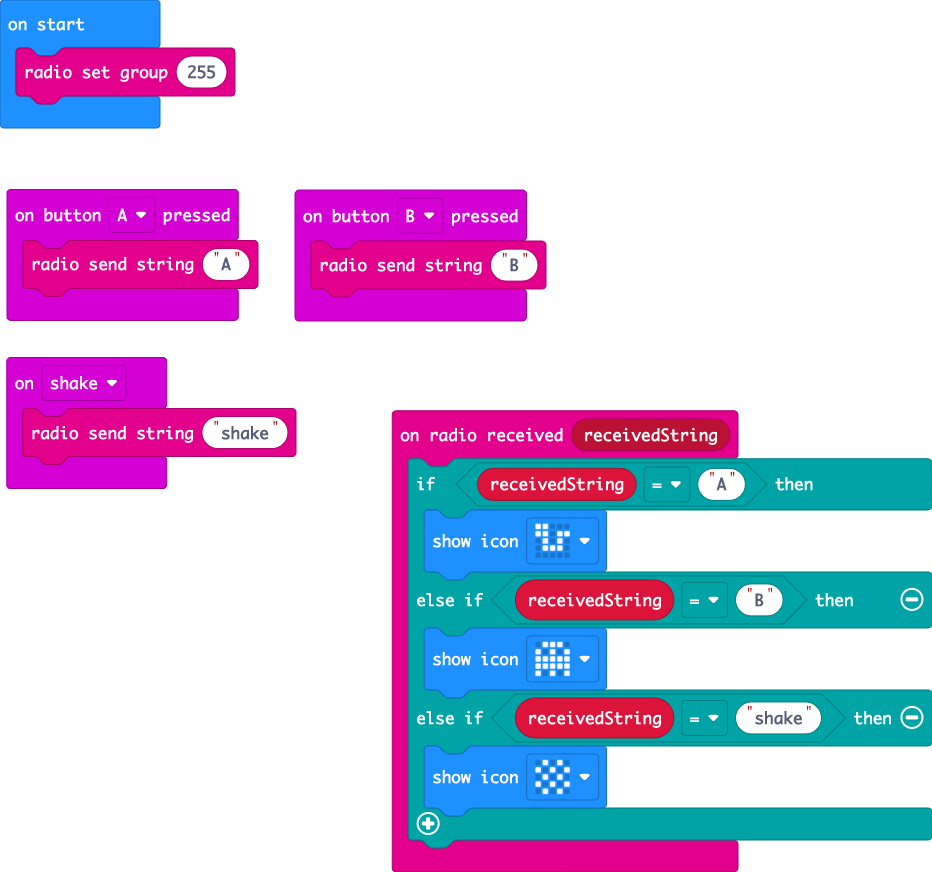
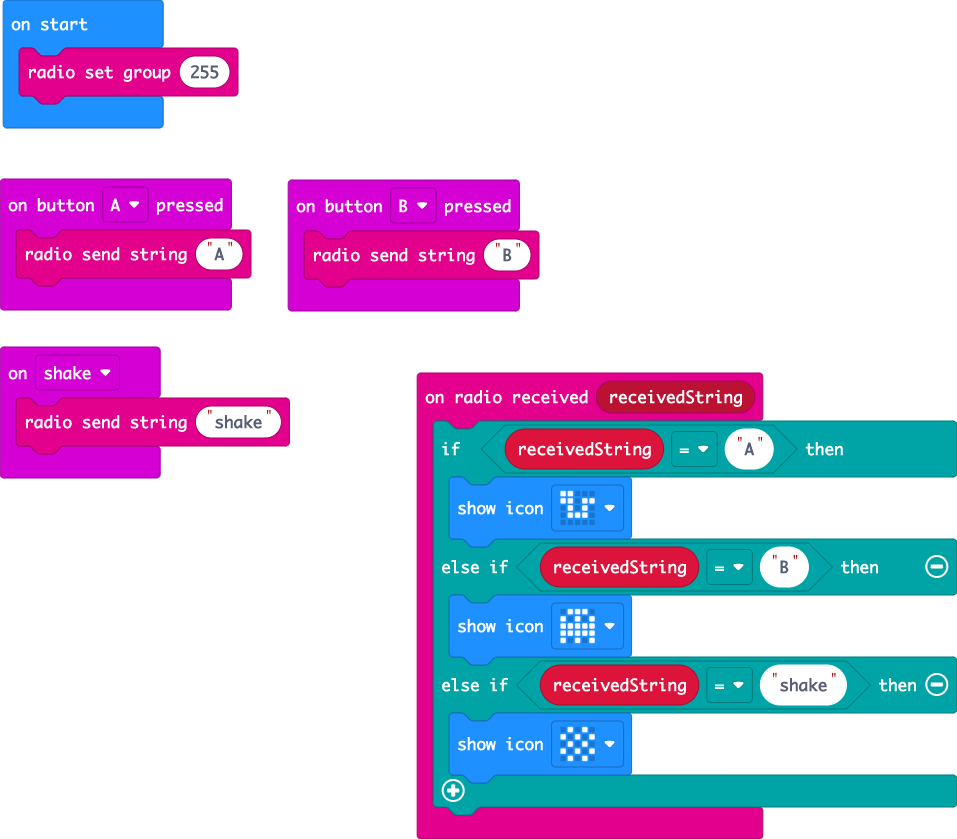
Tutorial

diff --git a/erps-starter-radio-tutorial.md b/erps-starter-radio-tutorial.md
@@ -1,1 +1,165 @@
-# erps-starter-radio-tutorial
+### @activities true
+### @explicitHints true
+
+# ERPS :: Starting with Radio - Tutorial
+
+## Introduction
+### Introduction Step @unplugged
+Welcome to your first turorial on how to use the in-built radio in your BBC micro:bit!  
+You are going to make a simple transmitter and receiver with your micro:bit, which responds to signals sent by a friend.  
+![Interactive badge](https://raw.githubusercontent.com/niaxotim/erps-starter-radio/master/assets/microbit-radio.png)
+
+## Setting up our radio
+### Step 1
+Our BBC micro:bit has an in-built radio transmitter. This transmitter works on different 'channels'.  
+
+We have to set which channel we want to use to transmit, and then listen on the same channel when we receive.  
+
+Let's set our radio channel using a ``||radio:radio set group||`` block - make sure you set it to the channel assigned to you!  
+  
+
+#### ~ tutorialhint
+```blocks
+radio.setGroup(255)
+```
+
+## Sending over the radio
+### Step 2
+Let's decide on what we are going to send over the radio. We can use our button inputs again to trigger sending things.  
+
+Drag a ``||input:on button A||`` on to your editor, and then have a look in the radio menu. We want to send some text over the radio - in programming, we often
+refer to text as *'strings'*. So let's now drag a ``||radio:radio send string ""||`` block over, and set the string to "A".
+
+#### ~ tutorialhint
+```blocks
+input.onButtonPressed(Button.A, function () {
+    radio.sendString("A")
+})
+```
+
+### Step 3
+Let's do the same when we press the 'B' button, but this time, send the string "B" over the radio.
+
+Drag the right blocks in to your editor.
+
+#### ~ tutorialhint
+```blocks
+input.onButtonPressed(Button.B, function () {
+    radio.sendString("B")
+})
+```
+
+### Step 4
+Finally, let's us a new kind of input for our micro:bit. Remember, the micro:bit also has an *accelerometer*, which means it knows when it
+is being moved about!
+
+This time, let's drag a ``||input:on shake||`` block in, and this time, send the string "shake" over the radio.
+
+#### ~ tutorialhint
+```blocks
+input.onGesture(Gesture.Shake, function () {
+    radio.sendString("shake")
+})
+```
+
+## Receiving over the radio
+### Step 5
+Great, so now we are sending text over the radio. But what about receiving?  
+
+For that, there's the ``||radio:on radio received receivedString||`` block.  Drag one on to your editor.  
+
+#### ~ tutorialhint
+```blocks
+radio.onReceivedString(function (receivedString) {
+
+})
+```
+
+### Step 6
+Remember that we're now sending 3 different strings over the radio, so we can expect 3 back. Which means we
+want a *conditional* statement to check for what string we have received.  
+
+Drag an ``||logic:if-else||`` block in to your radio receieve block. Click on the '+' symbol to create an *if-else* statement, and then do that
+again to create a second one. Press the '-' button to remove the last *else* statement. Check out the hint to make sure your code looks right!  
+
+#### ~ tutorialhint
+```blocks
+radio.onReceivedString(function (receivedString) {
+    if (true) {
+    } else if (false) {
+    } else if (false) {
+    }
+})
+```
+
+### Step 7
+Now we need to change each of those default 'true' and 'false' statements to actually check for what has been received by our radio.  
+
+Drag a ``||logic:"" = ""||`` block in to where it says 'true' in our 'if' statement. Then drag the red coloured 'receivedString' block in to the left-hand-side of the '=' statement.  
+
+The red *receivedString* block indicates that we have a *variable*, which means it's value can change!  
+
+Now make sure the right-hand-side has "A" as the string.  
+
+#### ~ tutorialhint
+```blocks
+radio.onReceivedString(function (receivedString) {
+    if (receivedString == "A") {
+    } else if (false) {
+    } else if (false) {
+    }
+})
+```
+
+### Step 8
+Now do the same for the second part of our if-statement. Make sure we have a block that checks that receivedString = "B".
+
+In the final part of our if-statement, we need to check for when receivedString = "shake".  
+
+Check the hint if you're not sure what your code should look like!  
+
+#### ~ tutorialhint
+```blocks
+radio.onReceivedString(function (receivedString) {
+    if (receivedString == "A") {
+    } else if (receivedString == "B") {
+    } else if (receivedString == "shake") {
+    }
+})
+```
+
+### Step 9
+OK, so we're set up to receive strings on the radio! Let's make our micro:bit show something when we receive those strings.  
+
+In each of our if-statement blocks, drag a ``||basic:show icon||`` block, and choose a different icon for each part.  
+
+#### ~ tutorialhint
+```blocks
+radio.onReceivedString(function (receivedString) {
+    if (receivedString == "A") {
+        basic.showIcon(IconNames.Snake)
+    } else if (receivedString == "B") {
+        basic.showIcon(IconNames.Ghost)
+    } else if (receivedString == "shake") {
+        basic.showIcon(IconNames.Chessboard)
+    }
+})
+```
+
+### Step 10
+Connect your BBC micro:bit and click ``|Download|``.  
+
+Make sure your partner has also got the code working on their micro:bit.  Then press the buttons and shake yours, and see
+what happens to your friend's micro:bit!  
+
+Do you see icons appearing as expected on their micro:bit? If not, check that you're both using the same radio channel!
+
+### Step 11
+As a final challenge, see if you can have different icons displayed, or perhaps even add some more *input* methods other than 'A', 'B', and 'shake'.  
+
+Don't forget, if you add more inputs, you'll have to check for more strings being received!  
+
+
+### Basic radio tutorial Complete @unplugged
+Great work! You've now transmitted data from one micro:bit to another using the radio!
+![Great job](https://raw.githubusercontent.com/niaxotim/erps-starter-radio/master/assets/great_job.png)
